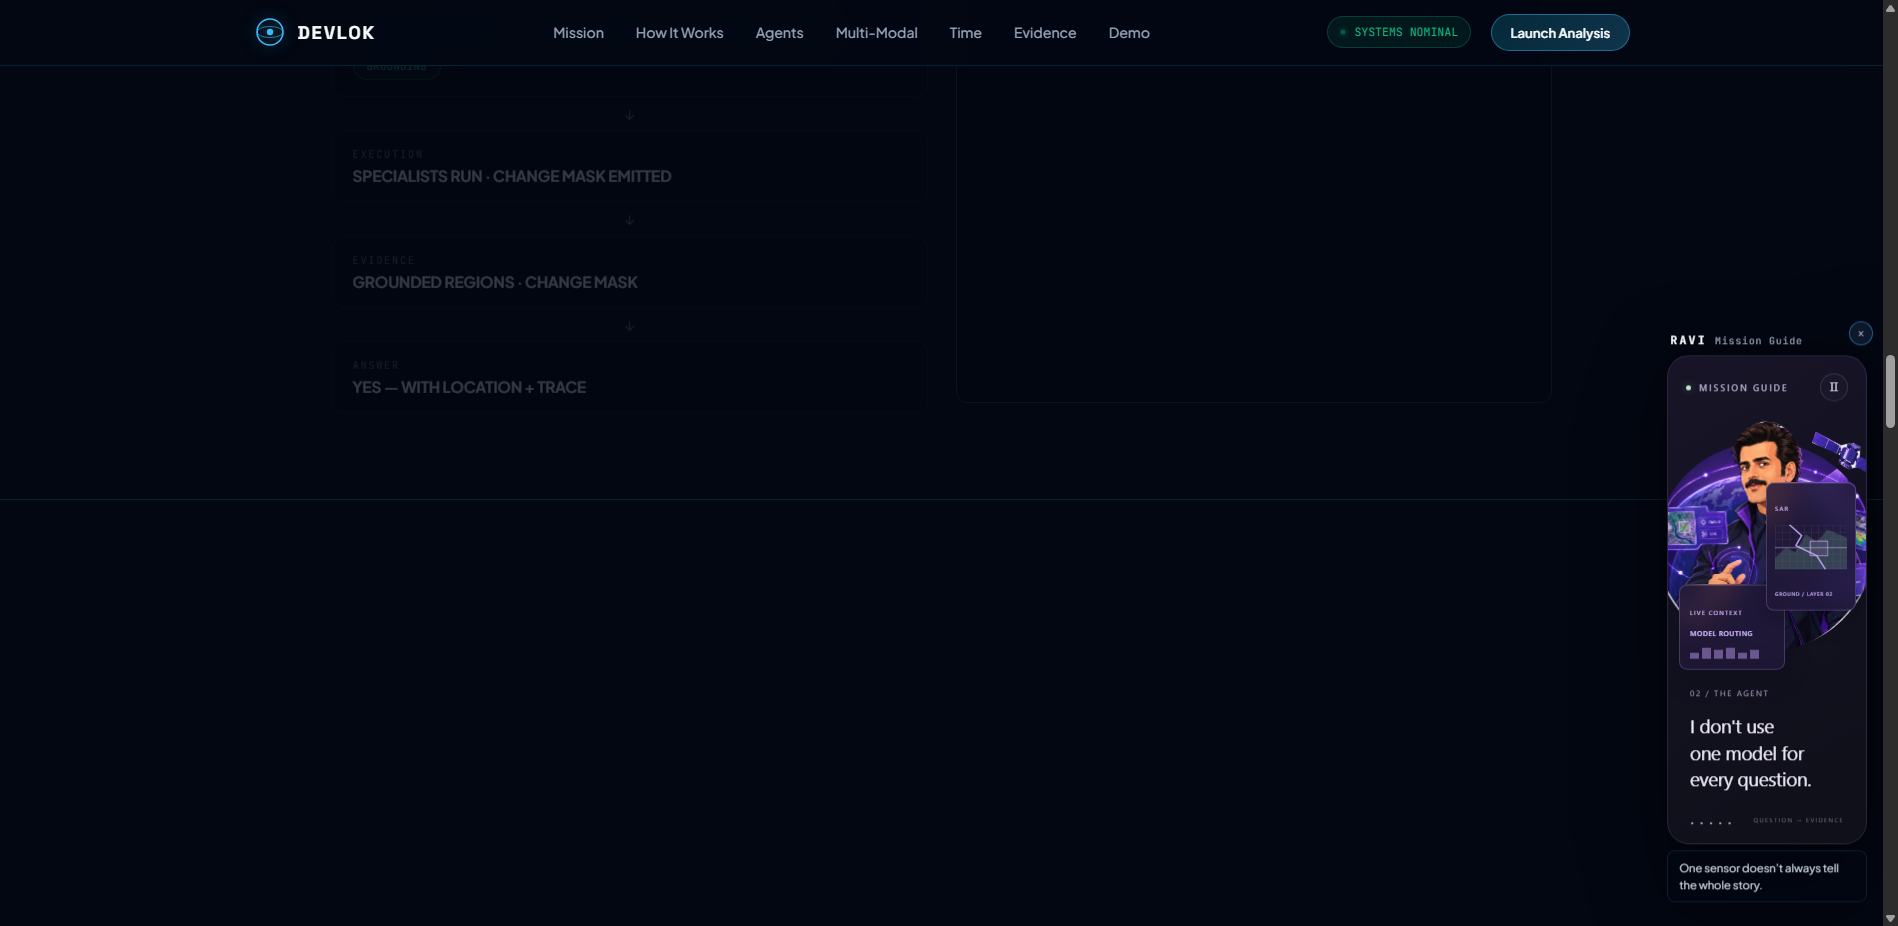
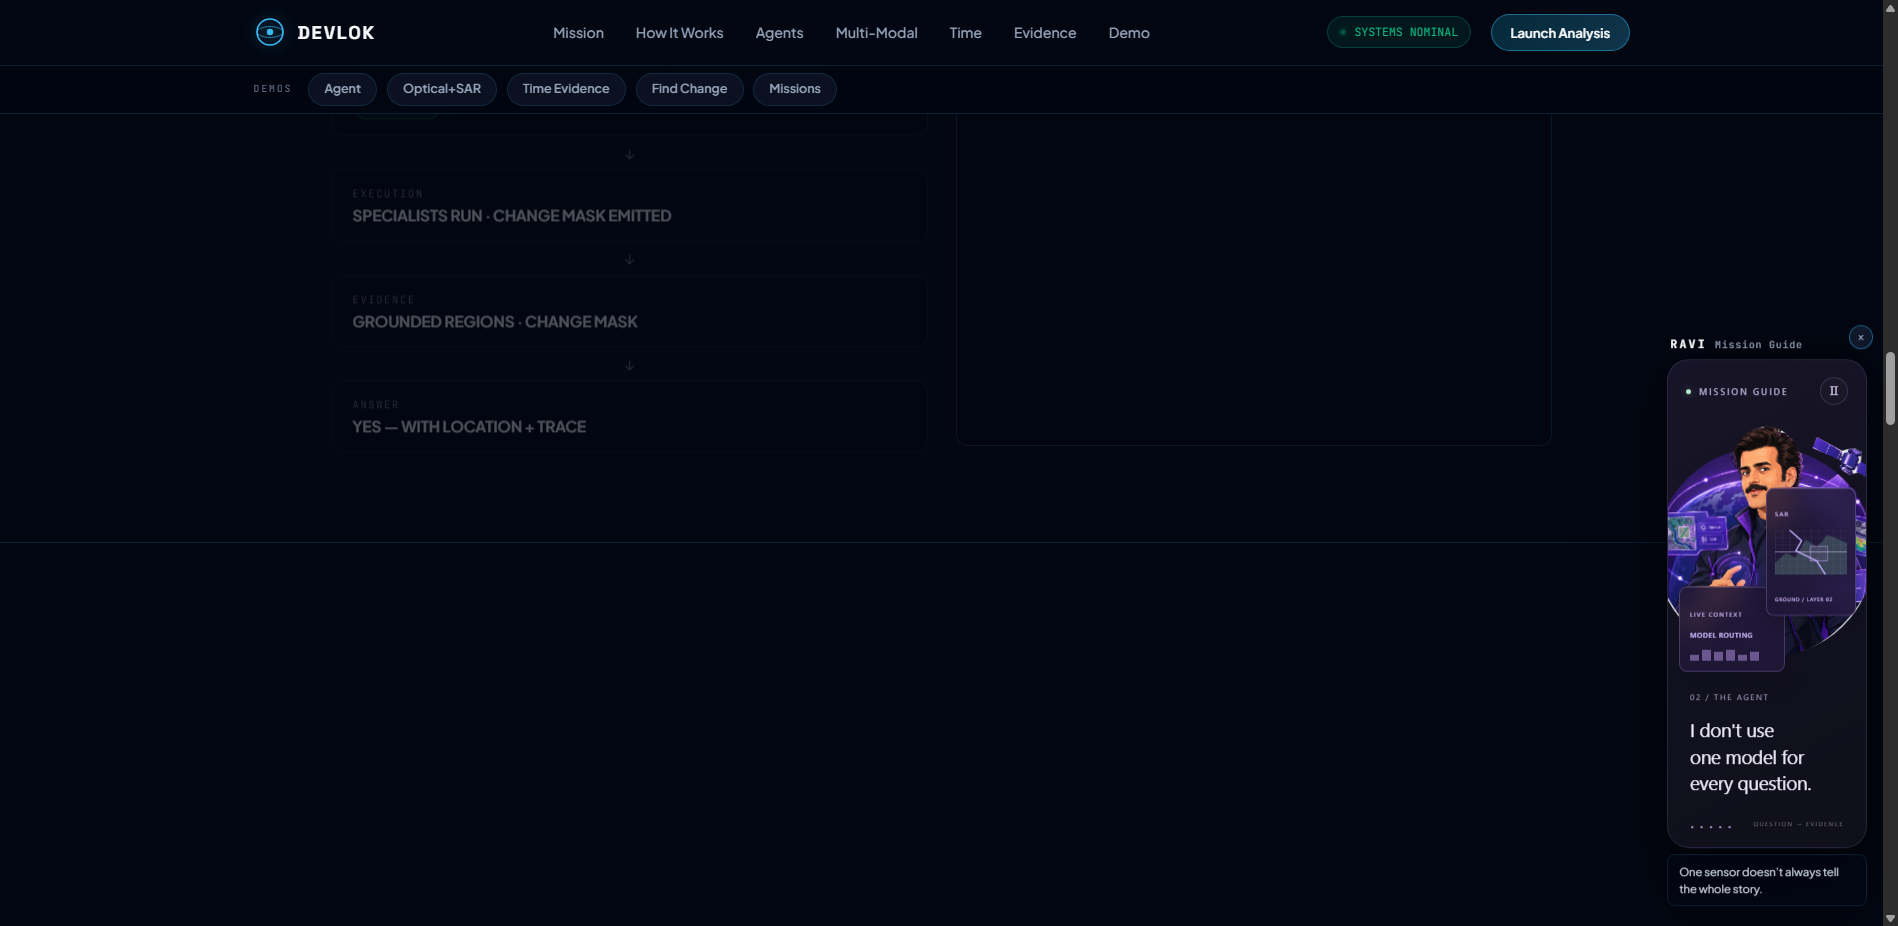
feat: demo ribbon in header + time-based hero scroll smoothing

diff --git a/assets/js/app.js b/assets/js/app.js
@@ -3,7 +3,7 @@
  * 
  * Implements:
  * 1. Sequential 240-frame WebP loading (frame_0001.webp to frame_0240.webp)
- * 2. High-performance requestAnimationFrame linear interpolation (lerp)
+ * 2. High-performance requestAnimationFrame time-based exponential smoothing
  * 3. Bidirectional smooth scrub (scroll down -> forward, scroll up -> reverse)
  * 4. Freezes on scroll stop (zero idle CPU/GPU consumption)
  * 5. Object-fit: cover responsive canvas rendering with Retina/High-DPI support
@@ -20,7 +20,10 @@
   const TOTAL_FRAMES = 240;
   const FRAME_PREFIX = 'assets/frames/frame_';
   const FRAME_EXT = '.webp';
-  const LERP_DAMPING = 0.12; // Smoothing factor (0.05 = heavy momentum, 0.25 = snappy)
+  // Time-based exponential smoothing rate (per second). Frame-rate independent,
+  // so the glide feels identical on 60Hz and 120Hz+ displays. 7.5 matches the
+  // old 0.12-per-tick feel at 60fps without judder on faster screens.
+  const LERP_LAMBDA = 7.5;
   
   // Mobile / Performance detection
   const isMobile = /Mobi|Android|iPhone|iPad/i.test(navigator.userAgent) || window.innerWidth < 768;
@@ -166,8 +169,18 @@
       img.src = getFrameUrl(index);
       img.onload = () => {
         frames[index] = img;
-        loadedFrames.add(index);
-        resolve(img);
+        // Pre-decode off the critical path so the first draw of each frame
+        // never hitches the scroll glide. A frame counts as loaded only
+        // once it is actually ready to paint.
+        const markReady = () => {
+          loadedFrames.add(index);
+          resolve(img);
+        };
+        if (typeof img.decode === 'function') {
+          img.decode().then(markReady, markReady);
+        } else {
+          markReady();
+        }
       };
       img.onerror = () => {
         // Retry once or ignore gracefully
@@ -261,7 +274,14 @@
   }
 
   // --- RAF Physics Interpolation (Lerp) Engine ---
-  function tick() {
+  let lastTickTime = 0;
+  function tick(now) {
+    const nowMs = typeof now === 'number' ? now : performance.now();
+    if (!lastTickTime) lastTickTime = nowMs;
+    // Clamp dt so a tab-switch stall can't teleport the animation
+    const dt = Math.min(0.05, Math.max(0, (nowMs - lastTickTime) / 1000));
+    lastTickTime = nowMs;
+
     const diff = targetFrame - currentFrame;
 
     // If within threshold, settle and freeze
@@ -269,11 +289,12 @@
       currentFrame = targetFrame;
       renderFrame(Math.round(currentFrame));
       isAnimating = false; // Freeze animation, stop loop to conserve GPU/CPU
+      lastTickTime = 0;
       return;
     }
 
-    // Smooth linear interpolation towards targetFrame
-    currentFrame += diff * LERP_DAMPING;
+    // Time-based exponential smoothing towards targetFrame
+    currentFrame += diff * (1 - Math.exp(-LERP_LAMBDA * dt));
     renderFrame(Math.round(currentFrame));
 
     // Continue loop

diff --git a/assets/css/styles.css b/assets/css/styles.css
@@ -193,6 +193,60 @@ body {
   transform: translateY(-1px);
 }
 
+/* Demo ribbon: second header row with direct links to all five demo pages */
+.demo-ribbon {
+  border-top: 1px solid var(--border-subtle);
+  background: rgba(2, 6, 16, 0.65);
+}
+
+.demo-ribbon-inner {
+  max-width: 1440px;
+  margin: 0 auto;
+  padding: 0.45rem 2rem;
+  display: flex;
+  align-items: center;
+  gap: 0.6rem;
+}
+
+.demo-ribbon-label {
+  font-family: var(--font-mono);
+  font-size: 0.62rem;
+  letter-spacing: 0.18em;
+  color: var(--text-muted);
+  margin-right: 0.4rem;
+  white-space: nowrap;
+}
+
+.demo-ribbon-btn {
+  font-family: var(--font-sans);
+  font-size: 0.78rem;
+  font-weight: 600;
+  color: var(--text-secondary);
+  text-decoration: none;
+  white-space: nowrap;
+  padding: 0.35rem 0.95rem;
+  border-radius: var(--radius-full);
+  border: 1px solid var(--border-subtle);
+  background: rgba(15, 23, 42, 0.7);
+  transition: var(--transition-smooth);
+}
+
+.demo-ribbon-btn:hover {
+  color: #fff;
+  border-color: var(--accent-sky);
+  background: rgba(56, 189, 248, 0.12);
+}
+
+.demo-ribbon-btn:active {
+  transform: scale(0.96);
+  transition-duration: 160ms;
+}
+
+.demo-ribbon-btn:focus-visible {
+  outline: 2px solid var(--accent-sky);
+  outline-offset: 2px;
+}
+
 /* ==========================================================================
    Hero Scroll Track & Sticky Viewport
    ========================================================================== */
@@ -1246,6 +1300,16 @@ body {
   }
   
   .nav-links {
+    display: none;
+  }
+
+  .demo-ribbon-inner {
+    padding: 0.45rem 1rem;
+    overflow-x: auto;
+    scrollbar-width: none;
+  }
+
+  .demo-ribbon-inner::-webkit-scrollbar {
     display: none;
   }
 }

diff --git a/index.html b/index.html
@@ -333,6 +333,16 @@
       <a class="btn-nav-cta" href="#demo">Launch Analysis</a>
     </div>
   </div>
+  <div class="demo-ribbon">
+    <nav class="demo-ribbon-inner" aria-label="Demo pages">
+      <span class="demo-ribbon-label" aria-hidden="true">DEMOS</span>
+      <a class="demo-ribbon-btn" href="pages/satquery-agent-decides.html" aria-label="Open the agent routing demo">Agent</a>
+      <a class="demo-ribbon-btn" href="pages/satquery-crossmodal.html" aria-label="Open the optical plus SAR fusion demo">Optical+SAR</a>
+      <a class="demo-ribbon-btn" href="pages/time-leaves-evidence.html" aria-label="Open the temporal change demo, 2018 to 2026">Time Evidence</a>
+      <a class="demo-ribbon-btn" href="pages/satquery-find-the-change.html" aria-label="Open the find the change demo">Find Change</a>
+      <a class="demo-ribbon-btn" href="pages/satquery-mission-selector.html" aria-label="Open the mission selector demo">Missions</a>
+    </nav>
+  </div>
 </header>
 
 <main id="top">
@@ -719,6 +729,7 @@
     </div>
   </div>
 </section>
+
 </main>
 
 <footer class="site-footer">
